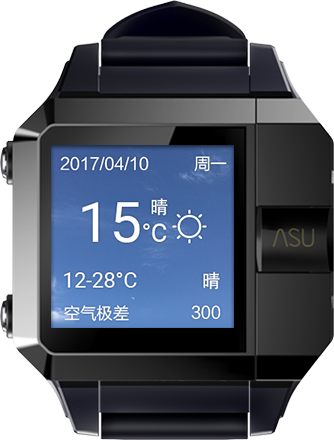
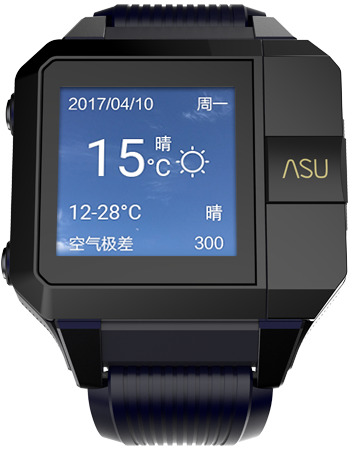
18.19日文档

diff --git a/templates/home.html b/templates/home.html
@@ -22,8 +22,8 @@
             <div class="swiper-slide">
                 <div class="sider sider1">
                     <div class="shop-link shop-link3">
-                            <div class="mb50 fs40 orange">高科技精密陶瓷</div>
-                            <div class="mb50 fs20">时光荏苒&nbsp;风采依旧</div>
+                            <div class="fs40 orange image-text">高科技精密陶瓷</div>
+                            <div class="mb50 fs20 image-text">时光荏苒&nbsp;风采依旧</div>
                         <a class="learn_more" href="{% url 'product:cast2' %}">查看详情</a>
                         <a class="now-bye orange-bg common-btn" href="{% url 'book:buy' %}">立即购买
                             <i class="fa fa-angle-right" aria-hidden="true"></i>
@@ -45,14 +45,16 @@
 
             <div class="swiper-slide">
                 <div class="sider sider0">
-                    <img src="/static/img/slider/watch2.png"  />
-                    <img src="/static/img/slider/slider1-o.png" class="pngcover-slider1 " />
+                    <div class="img-wrap">
+                            <img src="/static/img/slider/watch2.png"  />
+                            <img src="/static/img/slider/slider1-o.png" class="pngcover-slider1 " />
+                    </div>
                     <div class="shop-link shop-link1">
-                        <div class="mb50 fs20">
+                        <div class="fs20 image-text">
                             ASU Watch
                         </div>
-                        <div class="orange mb50 fs40">
-                            触&nbsp;/&nbsp;无屏可及
+                        <div class="orange mb50 fs40 image-text">
+                            触&nbsp;·&nbsp;无屏可及
                         </div>
                         <a class="learn_more" href="{% url 'product:cast2' %}">查看详情</a>
                         <a class="now-bye orange-bg common-btn" href="{% url 'book:buy' %}">立即购买
@@ -67,25 +69,8 @@
                      <img src="/static/img/slider/watch3.png" />
                      <img class="projective" src="/static/img/slider/projective.png"/> 
                     <div class="shop-link shop-link4">
-                            
-                       <!--  <table>
-                            <tr>
-                                <td class="fs40 orange">金属占比高达90%</td>
-                                <td class="fs20">极致占比&nbsp;经典触感</td>
-                            </tr>
-                            <tr>
-                                    <td></td>
-                                    <td>
-                                        <a class="learn_more" href="{% url 'product:cast2' %}">查看详情</a>
-                                        <a class="now-bye orange-bg common-btn" href="{% url 'book:buy' %}">立即购买
-                                            <i class="fa fa-angle-right" aria-hidden="true"></i>
-                                        </a>
-                                    </td>
-                                </tr>
-                        </table> -->
-
-                        <div class="fs40 orange">金属占比高达90%</div>
-                                <div class="fs20">极致占比&nbsp;经典触感</div>
+                        <div class="fs40 orange image-text">金属占比高达90%</div>
+                                <div class="fs20 image-text">极致占比&nbsp;经典触感</div>
                                 <div><a class="learn_more" href="{% url 'product:cast2' %}">查看详情</a>
                                     <a class="now-bye orange-bg common-btn" href="{% url 'book:buy' %}">立即购买
                                         <i class="fa fa-angle-right" aria-hidden="true"></i>
@@ -100,8 +85,9 @@
             <div class="swiper-slide">
                 <div class="sider sider4">
                     <div class="shop-link shop-link6 black">
-                            <div class="mb50 fs40">首个全金属外壳蓝牙耳机</div>
-                            <div class="mb50 fs20">机标一体&nbsp;业界风范</div>
+                            <div class="fs20 image-text">机标一体&nbsp;业界风范</div>
+                            <div class="fs40 image-text mb50">首个全金属外壳蓝牙耳机</div>
+                            
                         <a class="learn_more" href="{% url 'product:cast2' %}">查看详情</a>
                         <a class="now-bye orange-bg common-btn" href="{% url 'book:buy' %}">立即购买
                             <i class="fa fa-angle-right" aria-hidden="true"></i>

diff --git a/static/css/hostpage.css b/static/css/hostpage.css
@@ -100,7 +100,7 @@
     background-repeat: no-repeat!important;
   }
   .sider0{
-    background: url(/static/img/slider/slider1.png);
+    background: url(/static/img/slider/slider1.jpg);
   } 
   .sider1{
 background:unsert;
@@ -123,9 +123,7 @@ background:unsert;
     position: absolute;
     
   }
-  .shop-link .fs40{
-    font-family: lanting;
-  }
+
   .shop-link1{
     left: 58%;
     bottom: 50%;
@@ -151,7 +149,7 @@ background:unsert;
     opacity: .1;
   }
   .shop-link4 .fs20{
-    margin: 40px auto;
+    margin-bottom:  50px;
   }
   .shop-link5{
     left: 56%;
@@ -159,8 +157,8 @@ background:unsert;
     transform: translateY(50%);
   }
   .shop-link6{
-    left: 22.5%;
-    top: 44%;
+    left: 18.5%;
+    top: 45%;
     color: #333!important;
   }
   .shop-link3 a:first-child,.shop-link6 .learn_more{
@@ -224,6 +222,7 @@ background:unsert;
   .mb50{
     margin-bottom:50px;
   }
+ 
   .fs20{
     font-size: 20px;
   }
@@ -258,9 +257,14 @@ background:unsert;
 
 
 
+.sider0 .img-wrap{
+  position: absolute;
+  height: 70%;
+  top: 50%;
+  transform: translateY(-50%);
+}
 .sider0 img{
   position: absolute;
-  left: -10%;
   height: 100%;
 }
 
@@ -269,7 +273,7 @@ background:unsert;
 -webkit-animation:spin 60s linear infinite;
 -moz-animation:spin 60s linear infinite;
 animation:spin 60s linear infinite; 
-transform-origin: 38% 50%;
+transform-origin: 43% 49%;
 }
 @-moz-keyframes spin { 100% { -moz-transform: rotate(360deg); } }
 @-webkit-keyframes spin { 100% { -webkit-transform: rotate(360deg); } }
@@ -284,28 +288,25 @@ transform-origin: 38% 50%;
 -webkit-transform:rotate(45deg); /* Safari 和 Chrome */
 -o-transform:rotate(45deg); 	/* Opera */
 }
-.sider-2img{
-  position: absolute;
-  left: 50%;
-}
+
 .sider-2img{
   height: 100%;
   position: absolute;
-  left: 50%;
+  right: 56%;
   opacity: 0;
   filter: alpha(opacity=0)\9;
-  -webkit-transform: translateX(-35%);
-  -ms-transform: translateX(-35%);
-  transform: translateX(-35%);
+  -webkit-transform: translateX(-5%);
+  -ms-transform: translateX(35%);
+  transform: translateX(35%);
 }
 
 .swiper-slide-active .sider-2img{
   transition: opacity 3s, transform 3s;
   opacity: 1;
   filter: alpha(opacity=100)\9;
-  -webkit-transform: translateX(-20%);
-  -ms-transform: translateX(-20%);
-  transform: translateX(-20%);
+  -webkit-transform: translateX(20%);
+  -ms-transform: translateX(20%);
+  transform: translateX(20%);
 }
 .sider2 img{
   position: absolute;
@@ -318,7 +319,7 @@ transform-origin: 38% 50%;
 @media screen and (min-width:1500px){
   .sider-2img{
     position: absolute;
-    left: 46%;
+    right: 48%;
   }
   .sider2 img{
     left: -8%;
@@ -338,6 +339,7 @@ transform-origin: 38% 50%;
   left: 50%;
   transform: translate(-50%,-50%) scale(.9);
   opacity: .6;
+  height: 66%;
 }
 .swiper-slide-active .sider4-img{
   transform: translate(-51%,-51%) scale(1);

diff --git a/product/templates/product/cast2.html b/product/templates/product/cast2.html
@@ -431,8 +431,33 @@
                 </div>
             </div>
         </div>
-        <div class="container-fluid">
-            <img class="advertising" src="/static/img/product/canshu.jpg" alt="" />
+        <div class="container-fluid p-r">
+            <img class="advertising" src="/static/img/product/canshu.png" alt="" />
+            <table class="title-text white">
+                <tr>
+                    <td class="f18 text-center" colspan="2">ASU Watch</td>
+                </tr>
+                <tr class="text-center">
+                    <td>
+                        <img class="tb-icon" src="/static/img/icon/canshu1.svg" alt="" />
+                        <p>高通MSM9008W四核处理器</p>
+                    </td>
+                    <td>
+                            <img class="tb-icon" src="/static/img/icon/canshu2.svg" alt="" />
+                            <p>1GB RAM+8GB ROM</p>
+                    </td>
+                </tr>
+                <tr class="text-center">
+                        <td>
+                            <img class="tb-icon" src="/static/img/icon/canshu3.svg" alt="" />
+                            <p>4GB容量</p>
+                        </td>
+                        <td>
+                                <img class="tb-icon" src="/static/img/icon/canshu4.svg" alt="" />
+                                <p>待机时间24小时</p>
+                        </td>
+                    </tr>
+            </table>
         </div>
         <div class="container-fluid">
             <div class="container mt60mb120">

diff --git a/page/templates/page/faith.html b/page/templates/page/faith.html
@@ -10,12 +10,12 @@
  {% endblock %}
 {% block content %}
 <section class="main">
-    <div class="text-center">
+    <div class="text-center image-text">
             <h2 class="fs60">Interactive of Everything</h2>
-            <p class="fs24">以“造物者”的初心接受所有，保持敞开，充满激情，对无限可能的未来，
-                <br/>笃实而虔诚。改变的是过程，不变的是心态。前方，永远都是新的起点！</p>
+            <p class="f16 l2">以“造物者”的初心接受所有，保持敞开，充满激情，对无限可能的未来，
+                笃实而虔诚。改变的是过程，不变的是心态。<br/>前方，永远都是新的起点！</p>
             <h1 class="fs60">Aspiration</h1>
-            <p class="fs24">强烈愿望表现为真诚的态度，感动的情绪，正确的表达</p>
+            <p class="f16 l2">强烈愿望表现为真诚的态度，感动的情绪，正确的表达</p>
     </div>
     <div id="to_next" class="down text-center">
         <img src="/static/img/icon/down.svg" />

diff --git a/page/templates/page/usage.html b/page/templates/page/usage.html
@@ -12,11 +12,13 @@
     <div class="link f16">
         <a class="download" href="/media/download/watch使用手册.pdf" target="_black">
             <span class="black">
-                ASU&nbsp;Watch&nbsp;激光投影手表<i class="fa fa-arrow-circle-down grey" aria-hidden="true"></i>
+                ASU&nbsp;Watch&nbsp;激光投影手表<img class="down-icon" src="/static/img/icon/xiazai.svg">
             </span>
+            
         </a>
         <a href="#bt">
-                <span class="black">ASU&nbsp;蓝牙耳机<i class="fa fa-arrow-circle-down grey" aria-hidden="true"></i></span>
+                <span class="black">ASU&nbsp;蓝牙耳机<img class="down-icon" src="/static/img/icon/xiazai.svg"></span>
+                
         </a>
 
     </div>

diff --git a/product/templates/detail.html b/product/templates/detail.html
@@ -28,8 +28,8 @@
         <div id="myTabContent" class="tab-content">
             <!-- 商品详情 -->
             <div class="col-xs-8 tab-pane fade in active" id="details" role="tabpanel">
-                    <h2 class=" orange"> {{product.title }} </h2> 
-                    <h5 class=" grey">{% trans "Time" %}：{{product.date|date:'Y-m-d' }}</h5>
+                    <div class="fs30 orange"> {{product.title }} </div> 
+                    <h5 class="grey">{% trans "Time" %}：{{product.date|date:'Y-m-d' }}</h5>
                 <div class="illustrate">
                     {{ product.detail|default:''|safe}}
                 </div> 

diff --git a/templates/base.html b/templates/base.html
@@ -68,7 +68,7 @@
                         </td>
                         <td class="small-padding">
                           <a href="{% url 'product:search' %}"><i class="fa fa-search" aria-hidden="true"></i></a>
-                          <a href="/">中文</a><span>丨</span><a href="/en/home">EN</a>
+                          <a href="/">中文</a><span class="grey">丨</span><a href="/en/home">EN</a>
                         </td>
                     
                       </tr>

diff --git a/static/js/homepage.js b/static/js/homepage.js
@@ -19,7 +19,8 @@ $(document).ready(function(){
     var abslut = $('.logo').offset().left;
     $('.swiper-button-prev').css('left', abslut+'px');
     $('.swiper-button-next').css('right', abslut+'px');
-    $('.shop-link3').css('left', abslut+60+'px');
+    $('.shop-link3').css('right', abslut+120+'px');
+    $('.sider0 .img-wrap').css('left', abslut+180+'px');
 })
 /* 点击显示微信群二维码 */
 $('#weichat').on('click',function(){

diff --git a/static/page/css/usage.css b/static/page/css/usage.css
@@ -4,7 +4,7 @@
 .link a{
     padding:0 30px;
     display: inline-block;
-    margin: 60px 0 30px;
+    margin: 50px 0;
 }
 a.download{
     border-right: 1px solid #ddd;
@@ -14,9 +14,11 @@ a.download{
     padding: 30px;
     font-size: 20px;
 }
-.link a i{
-    margin-left: 10px;
-}
 .p115{
     padding: 0 115px;
+}
+.down-icon{
+    height: 20px;
+    margin-left: 6px;
+    vertical-align: sub;
 }

diff --git a/static/products/css/products.css b/static/products/css/products.css
@@ -38,19 +38,13 @@
  * 通用
  */
 
-.red_msg {
-    color: rgb(201, 22, 35);
+.fs30{
+    font-size: 30px;
 }
-
-ul {
-    padding: 0px;
-}
-
-.btn-danger {
-    background-color: rgb(201, 22, 35);
-}
-.news-lable {
-    padding-left: 105px;
+h5.grey{
+    margin: 15px auto 40px;
+    padding-bottom: 18px;
+    border-bottom: 1px solid #ddd;
 }
 /* 
  * 功能组

diff --git a/static/products/css/cast2.css b/static/products/css/cast2.css
@@ -701,3 +701,20 @@ section.sub-item{
     display: none;
     height: 172px;
 }
+.title-text{
+    position: absolute;
+    left: 50%;
+    top: 50%;
+    transform: translateY(-50%);
+    font-size:12px;
+  }
+  .tb-icon{
+    height: 40px;
+  }
+  .title-text td{
+      width:170px;
+      padding: 5px 0;
+  }
+  .title-text p{
+      margin: 10px 0;
+  }

diff --git a/templates/en/parameters.html b/templates/en/parameters.html
@@ -2,6 +2,11 @@
 {% block pagetitle%}ASU &nbsp;watch{% endblock%}
 {% block css %}
 <link href="/static/products/css/cast2.css"  rel="stylesheet">
+<style>
+    .parts-text {
+    transform: translate(-80%,-10%)
+    }
+</style>
 {% endblock %}
 {% block content %}
      
